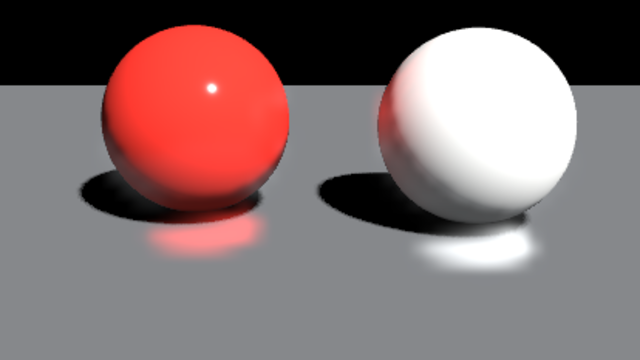
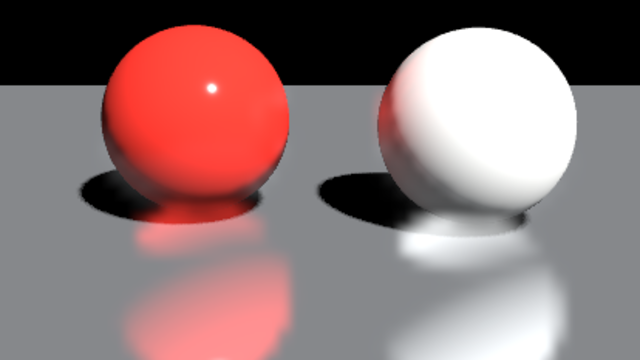
fix(#302): keep the planar reflection's dark side in the composite
The floor read the planar image's lightness as its coverage, so a mirrored
sphere's own shadowed side counted as empty and the sky stood in: the
mirror came out as a bright cap and a separate lower disc. The planar pass
clears to transparent black, so read its alpha instead, which is exactly
where the mirrored scene drew. The ambient fill the pass used to add is no
longer needed now that the mirrored vertices keep the real model's normals.

Recapture the reflections viewport and record the fix in PARITY.md and
TICKETS.md.

Changed region(s): [[0.1875, 0.55, 0.4688, 1.0], [0.5938, 0.5806, 0.9062, 1.0]]

diff --git a/crates/aztek_host/src/viewport.rs b/crates/aztek_host/src/viewport.rs
@@ -1225,36 +1225,11 @@ impl Viewport {
 
     /// This frame's lights again, in the planar reflection's own buffer: the same view and lights as the camera's, with
     /// no shadow map, since the mirrored geometry would sample it at the wrong place (#302).
-    pub fn write_lights_for(&mut self, s: &mut Session, items: &[DrawItem], view: DMat4, proj: DMat4, mode: crate::lighting::LightMode) {
+    pub fn write_lights_for(&mut self, s: &mut Session, _items: &[DrawItem], view: DMat4, proj: DMat4, mode: crate::lighting::LightMode) {
         let Some(lit) = self.lit.as_mut() else { return };
-        let mut chosen = crate::lighting::chosen(&mut s.graph, mode, visible);
-        if !chosen.is_empty() {
-            // The mirrored scene has no bounce light of its own: a plain fill stands in for the floor sending light
-            // back, so the underside of a mirrored sphere is shaded rather than cut black at its terminator (#302).
-            chosen.push(aztek_scene::lights::SceneLight {
-                shape: NO_NODE,
-                transform: NO_NODE,
-                kind: aztek_scene::lights::Kind::Ambient,
-                world: DMat4::IDENTITY,
-                color: [0.35, 0.35, 0.35],
-                diffuse: true,
-                specular: false,
-                decay: 0,
-                cone_deg: 180.0,
-                penumbra_deg: 0.0,
-                dropoff: 0.0,
-                ambient_shade: 0.0,
-                by_area: false,
-                volume_shape: 0,
-                volume_dir: 0,
-                volume_ambient: false,
-                cast_shadows: false,
-                exposure: 0.0,
-                ies: None,
-            });
-            let used: Vec<NodeId> = chosen.iter().map(|l| l.shape).collect();
-            lit.update_masks(&s.graph, &used, items.iter().map(|i| i.shape));
-        }
+        // The same lights as the camera's own pass, re-selected so they can go in the planar buffer without the shadow
+        // map. The per-shape masks are already the ones prepare_lights worked out for those same lights.
+        let chosen = crate::lighting::chosen(&mut s.graph, mode, visible);
         lit.write_planar_block(mode, &chosen, &view, &proj, self.disp.two_sided, self.cam.orthographic);
     }
 

diff --git a/crates/aztek_host/src/post.rs b/crates/aztek_host/src/post.rs
@@ -315,16 +315,21 @@ vec3 planar_at(vec2 c, vec3 p, vec3 n, vec3 r, float rough, out float cover) {
     ivec2 at = ivec2(c);
     ivec2 top = ivec2(pc.size.xy) - 1;
     vec3 plane = vec3(0.0);
+    // How much of the sample is mirrored scene: the planar pass clears to transparent black, so its alpha is the
+    // coverage. Lightness is not coverage: a mirrored sphere's own shadowed side is dark and still a reflection.
+    float data = 0.0;
     for (int y = -1; y <= 1; ++y) {
         for (int x = -1; x <= 1; ++x) {
             ivec2 q = clamp(at + ivec2(x, y), ivec2(0), top);
-            plane += pow(max(texelFetch(sampler2D(t_planar, s_point), q, 0).rgb, vec3(0.0)), vec3(2.2));
+            vec4 t = texelFetch(sampler2D(t_planar, s_point), q, 0);
+            plane += pow(max(t.rgb, vec3(0.0)), vec3(2.2));
+            data += t.a;
         }
     }
     plane /= 9.0;
-    // Where the planar image has nothing, the screen-space reflection stands in: the weight falls away with the
-    // image's own light and with roughness, and the two are mixed by one minus the other in the caller.
-    float data = smoothstep(0.0, 0.35, dot(plane, vec3(0.2126, 0.7152, 0.0722)));
+    // Where the planar image has nothing, the screen-space reflection stands in: the weight falls away at the image's
+    // edge and with roughness, and the two are mixed by one minus the other in the caller.
+    data = smoothstep(0.0, 0.5, data / 9.0);
     float rough_w = 1.0 - 0.5 * smoothstep(0.15, 0.7, rough);
     // The plane itself takes the planar image, fading to the sky where the image has nothing. The screen-space march
     // fills in on surfaces that are not the mirror, and only partly here where the surface is rough.

diff --git a/PARITY.md b/PARITY.md
@@ -4482,13 +4482,30 @@ moving.
 
 The ground plane's planar image and the screen-space reflection now share one brightness scale and the same filtered
 copy. The planar side gets a three by three sample so its silhouette hands over gradually; the weight is the surface's
-planarity, its roughness and the planar image's own light, and the two are mixed by one minus that weight, so the
-weights sum to one. The mirrored draw gets a plain ambient fill in place of the bounce light the real floor would send
-back. The reflections example's key is a directional light: a point light close to the floor left a cube shadow face
-seam across it, which read as a second reflection.
+planarity, its roughness and the planar image's own coverage, read from its alpha, and the two are mixed by one minus
+that weight, so the weights sum to one. The reflections example's key is a directional light: a point light close to
+the floor left a cube shadow face seam across it, which read as a second reflection.
 
-What still differs from the Render View: the viewport's planar reflection of the standing spheres is smaller and
-sharper than the render's soft full reflection, and away from the shot camera it can sit offset from the sphere
-rather than under it; the HDRI scene's sky is still not drawn as the viewport's background;
-and a point light near a large floor can still show a cube shadow seam. The new captures are in
+What still differs from the Render View: the HDRI scene's sky is still not drawn as the viewport's background, the
+viewport frames about 12% tighter than the render at the same focal length, only the widest flat ground mesh is
+mirrored, and a point light near a large floor can still show a cube shadow seam. The new captures are in
 `examples/rendering/reference` and `examples/rendering/viewport`.
+
+### The mirrored pass and the floor's top (26/11/2026, #302)
+
+The planar pass used to mirror the camera and rewrite the light block for that view. The geometry drew, but the
+fragment shader shaded it in the mirrored view's light space while its normal matrix and the main pass did not agree,
+so a mirrored sphere came out black except for one lit crescent, and it sat away from the sphere at most angles. The
+pass now keeps the main camera, projection and lights and mirrors the model instead: each item is drawn with the
+reflection matrix about the reflector's actual top plane (`translate(point) * reflect(up) * translate(-point)`), not
+about the world origin, so a floor slab whose top is not at zero works too. Normals are recomputed from the real
+model, so the planar image is the real scene's shading mirrored about the floor; culling is off because the mirror
+turns the winding. The planar pass has its own light buffer without the camera's shadow map, which would be sampled at
+the mirrored point.
+
+The composite reads the planar image's alpha, not its lightness, as the weight. The planar pass clears to transparent
+black, so alpha is exactly the mirrored scene's coverage: a sphere's own shadowed side is dark and still a reflection,
+where reading lightness treated it as empty and let the sky stand in, which cut the mirror into a bright cap and a
+separate lower disc. Measured at the persp camera before the fix, the lit planar image of the red mirrored sphere was
+only rows 313 to 337 (a crescent); with a flat unlit colour it projects to rows 307 to 422, the real red sphere's 111
+rows mirrored about its contact row, and the white mirrored sphere to rows 314 to 435 for the real 110 rows.

diff --git a/TICKETS.md b/TICKETS.md
@@ -24,9 +24,13 @@ Requests waiting or in progress, newest detail kept. Move to Done with the date 
   Render View at the same focal length; and Harold reflects one large single-face floor onto itself, so the parity
   floors are subdivided. The suite and its capture steps are in `tools/render_parity/README.md`. 25/11/2026: the
   reflection gather is a low-passed mip chain with a fixed disc and outlier clamp, and the planar and screen-space
-  tiers share a brightness and blur with weights that sum to one; the viewport's planar reflection is still smaller
-  and sharper than the render's, the sky is still not drawn as the background, and a point light close to a large
-  floor can leave a cube shadow seam.
+  tiers share a brightness and blur with weights that sum to one. 26/11/2026: the planar pass now mirrors the models
+  about the floor's top plane with the main camera and lights, shades them with the real model's normals, and the
+  composite uses the planar image's alpha rather than its lightness, so the mirror is a complete lit sphere anchored
+  under the real one at the shot, low, high and off-axis views instead of a black crescent away from the shot camera.
+  Left: the sky dome is still not drawn as the viewport's background, the viewport frames about 12% tighter than the
+  Render View, only the widest flat ground mesh is mirrored, and a point light close to a large floor can leave a cube
+  shadow seam.
 - Script Editor completion (25/11/2026): the feature is in (PARITY.md, docs/SCRIPT_EDITOR_COMPLETION.md). Left: object
   path completion; a Quick Help side bar; completion across a multi-line expression; type inference for an arbitrary
   expression before a dot; docstrings for the Python API's members, which the embedded modules do not carry;
